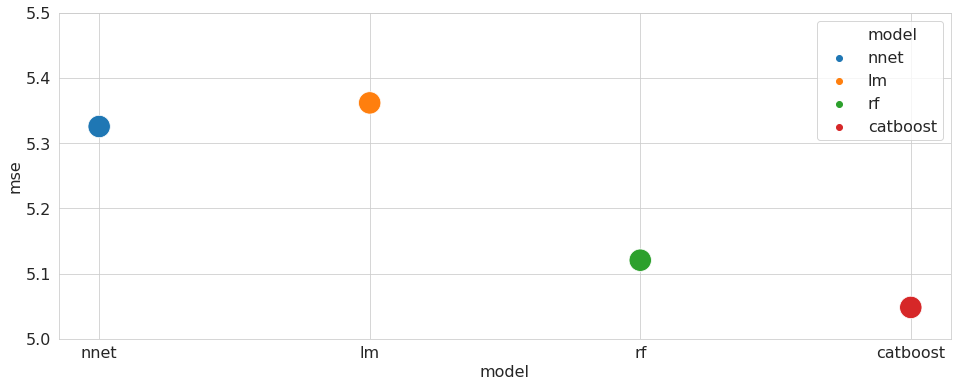
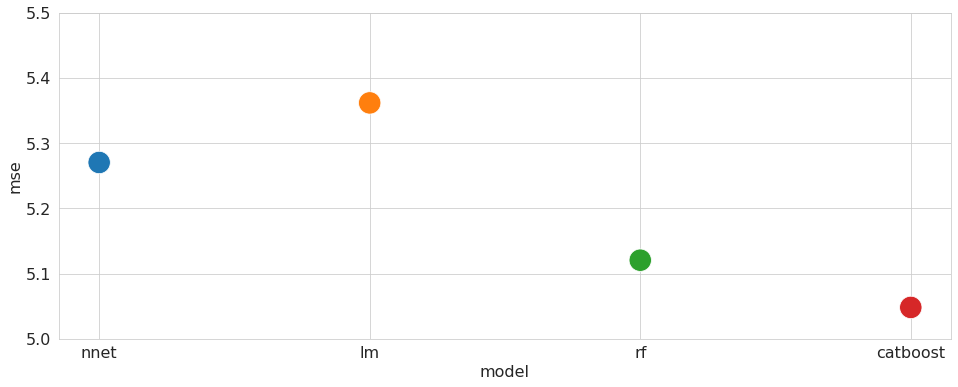
Update documentation

diff --git a/searchindex.js b/searchindex.js
@@ -1,1 +1,1 @@
-Search.setIndex({docnames:["intro","simulated","simulated_final","simulated_intro","simulated_reverse_engineering","stock","stock_final","stock_intro"],envversion:{"sphinx.domains.c":1,"sphinx.domains.changeset":1,"sphinx.domains.citation":1,"sphinx.domains.cpp":1,"sphinx.domains.index":1,"sphinx.domains.javascript":1,"sphinx.domains.math":2,"sphinx.domains.python":1,"sphinx.domains.rst":1,"sphinx.domains.std":1,sphinx:56},filenames:["intro.md","simulated.md","simulated_final.ipynb","simulated_intro.ipynb","simulated_reverse_engineering.ipynb","stock.ipynb","stock_final.ipynb","stock_intro.ipynb"],objects:{},objnames:{},objtypes:{},terms:{"100_000":3,"13th":0,"15_000":3,"1_629_155":7,"1st":4,"20_000":3,"228b22":4,"25_000":4,"2nd":6,"3rd":[2,4],"4169e1":4,"4th":4,"65_000":3,"80_000":3,"case":[4,7],"class":0,"default":[],"final":[0,1,3,4,5,7],"float":4,"function":[2,4],"import":[2,3,4,6,7],"long":0,"mat\u00e9rn":4,"return":[2,4,6,7],"short":5,"true":[2,4],"try":4,And:[1,2,4,7],But:4,For:[0,2,4,7],One:7,That:[4,6,7],The:[0,2,3,6,7],Then:5,There:[],Use:4,Using:7,With:6,a2m:7,a52a2a:4,abl:[2,4],about:[2,3,4,6],abov:[4,7],abs:4,absolut:7,accept:[],accross:4,across:4,act:6,activ:[0,2],actual:4,adam:2,add:2,add_:[],addit:[2,4],admit:4,affect:4,afterward:2,aftward:0,again:[5,6,7],against:4,algorithm:4,align:2,all:[0,2,3,4,6,7],allow:[],alpha:[4,6],alreadi:[0,4],also:[2,4],amount:4,analyz:[1,4],ani:4,annoi:4,anoth:[2,6],answer:4,aoa:7,api:2,appli:4,approach:6,architectur:2,archtectur:2,argsort:2,around:2,arrai:[],associ:[],assum:[0,4],astyp:4,at_adj:[6,7],ato:7,auditori:[],australia:[],automat:2,autoplai:[],avail:0,axes:[],axi:[2,4,6],back:0,backpropag:2,bar:2,base:0,basi:2,basic:2,batch_siz:2,beat:4,been:[0,2,3],befor:[3,4,7],begin:[],being:2,believ:[2,4],below:[0,2,4],beme:[6,7],beme_adj:7,benchmark:[2,5,6],best:3,beta1:4,beta2:4,beta3:4,beta:7,beta_0:4,beta_1:4,beta_2:4,beta_3:4,better:4,between:7,bib:[],bibliographi:[],bibtex:[],big:2,bin:4,black:4,bld:[2,4,6],block:[],bonn:0,book:[],bootstrap:2,both:4,box:4,brian:[],brisban:[],browser:4,build:[0,6],build_fn:2,build_project:0,build_regressor:2,built:[],button:[],calcul:2,call:2,can:[0,2,4,6,7],candid:3,cannot:[4,7],care:[2,3,6],catboost:[2,6],catboostregressor:[2,6],cdf:4,cell:[],center:[2,4],chang:[0,7],chapter:0,check:4,choos:[2,4],chose:5,chosen:[2,4,6],christoph:[],cite:[],classic:[2,7],classicali:4,clean_data:7,clear:4,click:0,clone:0,close:4,cmap:[],code:[2,6],coef:4,coef_:[4,6],coeffic:4,coeffici:[4,6],cognit:[],col:4,cold:[],color:[2,4],color_palett:4,column:[2,3,4,6,7],com:0,command:[],common:2,commonmark:[],compar:[1,2,3,4],comparison:7,compil:2,complex:[],compon:4,comput:[0,4],concaten:[6,7],concept:2,conda:0,confer:[],consid:[2,3,4,6],consist:[3,4],constrain:4,construct:[4,6,7],contain:[4,6,7],content:[],continu:[3,4],control:4,convinc:4,coolwarm:[],corr:4,correl:4,correlation_heatmap:4,cortex:[],could:[4,7],cov:4,covari:4,cover:[],creat:[0,4],create_predict:[],cross:[4,6],csv:[],cum_return_12_2:6,cum_return_12_7:6,cum_return_1_0:6,cum_return_36_13:6,cumul:4,custom_lin:[],cut:2,cycler:[],d_so:6,daa520:4,dash:4,data:[2,4,6],datafram:[2,4],date:7,deactiv:2,decid:[2,4],decis:3,deep:4,def:[2,4,6],defin:[],degre:[2,4,6],del:6,denot:4,dens:2,depend:[0,2],depth:2,design:3,detail:2,develop:2,deviat:4,df_coef:4,df_train:[2,6],df_val:[2,6],did:[2,4,7],differ:[2,4],dimens:[2,4,7],dimension:4,direct:4,directli:[2,5,6],discret:4,discuss:7,displai:[2,4],disregard:4,distplot:4,distr:4,distribut:[3,4],dive:4,doc:[],document:0,doe:[4,7],doesn:[],dollar:[],done:0,dot:4,download:0,draw:4,drop:[2,4,6,7],dtype:[],due:0,dure:2,e2p:6,each:[0,4,7],easi:0,easili:0,econometr:0,ecosystem:[],effect:[2,4],either:4,elimin:2,ell:4,emb:4,embed:0,emerg:4,empir:[],emploi:2,emul:0,end:[0,4],endeavor:1,engin:[1,3],enjoi:4,enough:4,ensembl:2,entir:4,entri:4,enumer:4,env:0,environ:0,epoch:2,eps:4,error:[2,4],escap:[],especi:4,establish:4,estim:4,estimators_:2,etc:[],evalu:7,evid:[],exampl:[0,2],exist:[],exogen:4,expect:[0,4],explain:[2,5],explod:4,explor:[1,5],extens:[],fals:[2,4,6],fashion:4,fast:4,favorit:0,featur:[3,6,7],feature_id:4,feature_importances_:2,feature_select:4,feel:3,few:[2,3,4],fig:[],figsiz:[2,4],figur:[2,4],file:0,file_simul:[],file_stock:[],filelink:[],final_predict:[2,6],final_prediction_simul:[],find:[2,4],first:[1,2,4,7],firstli:4,fit:[2,4,6,7],fit_transform:[2,4,6],fix:[],flatten:4,flavor:[],float64:[],floc:4,focu:2,fold:[4,6],folder:0,follow:[0,1,3,4,5,6,7],font:2,font_scal:4,forc:2,form:7,format:[],found:[6,7],four:[1,2],free:3,free_cf:6,freyberg:0,from:[0,2,3,4,6,7],frontier:[],full:2,further:[3,4],gaussian_process:4,gbt:2,gener:4,get:4,get_feature_nam:4,get_ridge_coef:4,get_support:4,getcwd:[2,3,4,6,7],git:0,github:0,give:4,given:[0,3,7],goal:4,goldenrod:4,great:4,greater:7,grid:6,grid_scores_:4,group:[4,7],gtb:[],guid:[],had:7,hand:3,has:2,have:[0,3,4,6,7],hdhpk14:[],head:[],heatmap:4,heavili:4,heer:[],held:0,henc:4,here:[0,2,4,6,7],hererer:2,hidden:2,highli:2,hist_kw:4,histogram:4,holdgraf:[],holdgraf_evidence_2014:[],home:[],hot:[],how:[2,3,4,5,7],howev:[0,2,4,7],html:[],html_attribut:4,http:0,hue:[2,4],human:[],hyperparamet:4,id_var:4,idea:4,ignor:[2,6,7],iloc:[3,7],imag:[],imagin:4,implement:[3,7],impli:4,importlib:4,includ:[2,4,7],include_bia:[2,4,6],incorrect:[],independ:4,index:[4,6,7],indic:2,indirect:4,individu:4,inform:[4,6],init:[],inner:4,input:2,input_dim:2,insert:[],insid:[],insight:4,instal:0,instead:4,interact:4,interest:4,intern:[],interpret:0,intro:7,introduc:[0,2],introduct:[],intuit:2,investig:[1,5],ion:[],ipynb:[],ipython:4,irrelev:4,iter:[2,4],its:[],itself:[],joachim:0,jump:[2,4,5,6],jupyt:[],jupytext:[],just:0,kde:4,keep:[],kera:2,kerasregressor:2,kernel:4,kind:[],knight:[],know:7,knowledg:4,krizhevski:2,la_:[],label:3,languag:0,lars_path:4,lasso:6,lasso_model:[4,6],lasso_model_poli:4,lassocv:[4,6],last:[2,4,5,7],lastli:[4,7],layer:2,lazi:4,lead:[2,4],learn:[2,3,4],learner:2,learning_r:2,least:[0,4],led:4,legend:4,len:4,length_scal:4,less:[],let:4,librari:2,like:4,line2d:[],line:[0,4],linear:4,linear_model:[2,4,6],linearregress:[2,4,6],lineplot:4,linestyl:4,linewidth:4,link:0,linspac:4,list:2,literatur:3,load:4,load_modul:4,loader:4,loc:4,local:4,locat:0,logarithm:6,logspac:6,look:4,loop:[],loss:2,loss_funct:2,lot:[],lower:[4,6],machin:[2,4],made:[2,4],mai:[],main:[2,4],major:4,make:4,make_featur:6,mani:[2,4],markedli:[],markup:[],master:[],matern:4,matern_kernel:4,math:[],mathcal:4,matplotlib:[2,4,6],matrix:4,matter:4,max:4,max_depth:2,max_featur:2,maximum:4,mbox:[],mean:[2,4],mean_squared_error:[2,6],measur:[2,7],medium:[],melt:4,memori:6,mention:4,mess:0,metadata:[],method:[2,4],metric:[2,6],min_samples_leaf:2,miniconda:0,mitig:2,mix:6,mle_tuple_norm:4,mle_tuple_t:4,model:[0,1,3,4,5,7],modul:4,more:[3,4],moreoev:[],moreov:2,most:[2,4],move:7,mp4:4,mse:6,mse_first_stag:2,mse_gbt:2,mse_gtb:[],mse_lm:[2,6],mse_nnet:2,mse_pm:6,mse_rf:2,multipl:[],multivariate_norm:4,must:2,mute:4,mvnormal:4,mydirectivenam:[],n_alpha:4,n_col:2,n_estim:2,n_job:2,name:0,nan:[3,7],nearli:0,necessari:0,need:[0,4],neg:4,neg_mean_squared_error:4,neglig:4,neighbor:[2,4],neuron:2,neurosci:[],nevertheless:4,next:[0,2,4,7],nnet:2,no_interact:4,noa:6,node:2,non:[2,4],nonzero:6,norm:4,norm_distr:4,norm_hist:4,normal:4,note:[0,2,4],notebook:[0,4],notic:4,number:4,numpi:[2,4,6],observ:[0,3,4,7],off:4,offlin:4,older:7,onc:[],one:4,onli:[2,3,4,6],open:0,optim:[2,4],order:4,origin:[2,7],other:[2,3],otherwis:0,our:4,out:4,outcom:[0,3,7],outperform:2,output:2,over:6,overal:[3,4],overfit:2,packag:[0,2,4],page:[],panda:[2,3,4,6,7],panel:7,paramet:[2,4,6],parameter:4,parent:[2,3,4,6,7],parquet:[0,2,3,4,6,7],part:[0,7],particular:[2,4],paslei:[],path:[2,3,4,6,7],pathlib:[2,3,4,6,7],pattern:[],pca:4,pcm:6,pdf:4,perform:[2,3,4,7],period:7,phi:4,pick:4,plai:2,pleas:[0,2,4,6],plot:[2,4],plt:[2,4,6],plu:6,pm_adj:6,point:3,poli:[2,4,6],poly_column:4,polynomi:[2,4,6],polynomialfeatur:[2,4,6],popular:2,posit:4,post:[],potenti:3,power:[2,6],pre:[],predict:[2,3,4,6],preprocess:[2,4,6],present:[0,1,2,3,4,5,7],previou:[2,6],print:[2,4,6],prior:4,problem:[2,4],procedur:[2,3,6],process:4,produc:0,prof:0,program:0,project:[0,4],prop:4,prop_cycl:[],properli:[],propos:4,proven:2,provid:[0,2,4],pure:4,purpos:[],pursu:4,pusu:4,pyplot:[2,4,6],python:[0,2,4],quantatit:4,quick:[1,5],quit:4,ramsai:[],randn:[],random:4,random_st:[2,4],randomforestregressor:2,randomli:[2,3,4],rang:[2,4],rather:4,rcparam:[2,4],rdata:0,reach:3,read:[0,4],read_parquet:[2,3,4,6,7],real:0,realiz:2,realli:4,recurs:2,reduc:[2,4],reduct:4,refer:[],regress:[2,4,6],regressor:[2,4],regular:[4,6],rel:[],relationship:2,relev:[2,4,6],relevant_column:6,relevant_poli:4,relu:2,remain:[3,4],remark:2,rename_axi:4,render:[],replac:4,repres:4,reproduc:0,rerun:0,reset_index:4,reshap:4,respect:[0,2,7],rest:[],result:[0,4],result_html_prefix:[],ret_max:6,revers:[1,3],rfecv:4,ridgecv:4,right:4,rmse:2,robert:[],rolenam:[],root:[2,3,4,6,7],rout:4,royalblu:4,run:0,rvs:4,sadli:4,safe:2,sai:4,said:2,same:4,sampl:[2,4,5],sandbox:0,scale:6,scatterplot:2,sciebo:[],scikit_learn:2,scipi:4,score:4,script:[0,2,3,6,7],seaborn:[2,4,6],second:[2,4],secondli:4,section:[0,1,2,3,4,5,6],see:[0,2,4],seed:2,seem:[],seen:4,select:[4,6],sens:[2,4],sensibl:4,septemb:0,sequenc:6,sequenti:2,seri:[],serv:[],set:[0,1,2,3,4,5,6,7],set_context:4,set_palett:4,set_styl:[2,4],seventh:2,sever:[2,7],shape:2,share:4,should:2,show:[1,2,4],shrunk:4,sigma:4,sigmoid:2,sign:[],signal:2,sim:4,similar:[2,4],simpi:4,simpl:[2,4,6],simplest:[],simplt:[],simul:[0,3,7],simulated_data:[0,3],sinc:[2,4],singl:[2,3],size:[2,4],skip:[3,4],sklearn:[2,4,6],slight:[],slightli:2,small:4,smaller:[4,7],sns:[2,4,6],some:[0,2,4,5],space:4,span:[],sparkr:0,spars:[2,4],sparsiti:4,spec:4,spec_from_file_loc:4,special:[4,6],specif:[0,2,7],sphinx:[],split:5,squar:[2,4],srivastava:2,stage:4,stand:4,standard:[3,4],start:[1,5,7],stat:4,state:[],statist:0,std:2,step:[2,3,4],still:4,stock:[0,7],stock_data:[0,7],store:0,str:4,strategi:[2,7],strongli:2,structur:[0,4,7],strucutr:4,style:4,submiss:[0,2],submit:0,subplot:[],subsect:[2,6],subset:[4,6],substanti:4,sum:4,support:4,sure:[],suv:6,syntax:[],system:0,t_distr:4,tabl:2,tag:4,talk:3,task:0,techniqu:[2,3,4],tensorflow:2,tenth:2,term:4,termin:0,test:[0,3,4,7],tex:[],text:4,than:[4,7],thei:4,them:4,themselv:0,theoret:2,thi:[0,2,3,4,7],thing:[4,6],third:[2,4,6],those:[],three:6,threshold:4,through:4,tight:4,tightli:4,tim:[],time:[6,7],timmen:0,tip:[],titl:[2,4],to_list:[4,6],togeth:7,too:[2,4],tool:4,top:[1,2,4],topic:0,toward:4,train:[0,2,4,5],train_simul:[2,4],train_stock:6,train_test_split:[3,7],transform:[0,2,3,4,6,7],tupl:4,turn:[2,4],two:[0,4],under:4,underli:4,understand:4,unfortun:4,uni:[],uniform:[3,4],uniformli:4,unit:[2,4,7],univari:4,univers:0,unregular:[4,6],unrel:4,until:7,updat:2,use:[0,2,4],used:[3,6],useful:4,uses:[],using:[0,1,2,4,6],util:4,valid:[1,2,4,5,6],validate_simul:2,validate_stock:6,valu:[2,4],var_nam:4,variant:2,variat:[],vector:4,verbos:[2,4],veri:[0,2,4],version:2,via:[4,6],video:4,vline:4,wai:[0,2,7],want:[0,4,7],weak:2,well:[2,4,5],wendi:[],were:[3,4,6],wether:4,when:4,where:[4,5],wherea:[],whether:4,which:[0,1,2,3,4,6,7],whitegrid:[2,4],why:4,willing:4,wish:4,without:0,won:4,wont:4,work:[2,4],would:4,wrapper:2,write:2,written:[],x12:4,x13:[],x14:4,x35:[],x37:4,x38:4,x39:4,x40:4,x44:[],x47:[],x57:4,x90:[],x92:4,x93:[],x94:[],x99:4,x_3:2,x_k:4,x_train:[2,6],x_val:[2,6],xlabel:4,xlim:[2,4],xtick:[2,4],xx_train:[2,6],xx_val:[2,6],y_train:[2,6],y_val:[2,6],year:[6,7],yerr:2,ylabel:4,ylim:[2,4],ymax:4,ymin:4,yml:0,you:[0,2,3,4,6],your:[0,4],z_k:4,zero:4,zip:2},titles:["Introduction","Simulated Data","Final","Data Description","Reverse Engineering","Stock Data","Final","Data Description"],titleterms:{"final":[2,6],Adding:[],The:4,Using:2,analysi:4,applic:2,approach:4,between:4,block:[],bonn:[],book:[],boost:2,citat:[],clean:7,code:0,comparison:[2,4],conclus:4,content:[],data:[0,1,3,5,7],deep:2,degre:[],descript:[0,3,7],direct:[],dropout:2,econometr:[],elimin:4,engin:4,execut:[],far:4,featur:[2,4],file:[],first:[],forest:2,format:0,freyberg:[],gradient:2,implement:2,introduct:0,joachim:[],jupyt:[],lasso:4,linear:[2,6],markdown:[],model:[2,6],mse:2,myst:[],network:2,neural:2,next:3,note:[],notebook:[],outcom:4,output:[],predict:0,preliminari:[2,4,6],problem:0,process:[],prof:[],quantit:4,random:2,recap:4,recurs:4,regular:2,relationship:4,revers:4,ridg:4,role:[],second:[],select:2,set:[],simul:[1,4],split:[3,7],stage:[2,6],statist:[],stock:5,subset:2,theori:2,topic:[],train:[3,7],tree:2,two:[2,6],univers:[],using:[],valid:[3,7],what:[],your:[]}})
+Search.setIndex({docnames:["intro","simulated","simulated_final","simulated_intro","simulated_reverse_engineering","stock","stock_final","stock_intro","zreferences"],envversion:{"sphinx.domains.c":1,"sphinx.domains.changeset":1,"sphinx.domains.citation":1,"sphinx.domains.cpp":1,"sphinx.domains.index":1,"sphinx.domains.javascript":1,"sphinx.domains.math":2,"sphinx.domains.python":1,"sphinx.domains.rst":1,"sphinx.domains.std":1,sphinx:56},filenames:["intro.md","simulated.md","simulated_final.ipynb","simulated_intro.ipynb","simulated_reverse_engineering.ipynb","stock.ipynb","stock_final.ipynb","stock_intro.ipynb","zreferences.md"],objects:{},objnames:{},objtypes:{},terms:{"100_000":3,"13th":0,"15_000":3,"1_629_155":7,"1st":4,"20_000":3,"228b22":4,"25_000":4,"2nd":6,"3rd":[2,4],"4169e1":4,"4th":4,"65_000":3,"80_000":3,"\u0131":8,"case":[4,7],"class":0,"default":[],"final":[0,1,3,4,5,7],"float":4,"function":[2,4],"import":[2,3,4,6,7],"long":0,"mat\u00e9rn":4,"return":[2,4,6,7],"short":5,"true":[2,4],"try":4,And:[1,2,4,7],But:4,For:[0,2,4,7],One:7,Res:8,That:[4,6,7],The:[0,2,3,6,7],Then:5,There:[],Use:4,Using:7,With:6,a2m:7,a52a2a:4,aab:[2,8],abadi:8,abl:[2,4],about:[2,3,4,6],abov:[4,7],abs:4,absolut:7,accept:[],accross:4,acm:8,across:4,act:6,activ:[0,2],actual:4,adam:2,add:2,add_:[],addit:[2,4],admit:4,affect:4,afterward:2,aftward:0,again:[5,6,7],against:4,agarw:8,alex:8,algorithm:4,align:2,all:[0,2,3,4,6,7],allow:[],alpha:[4,6],alreadi:[0,4],also:[2,4],amount:4,analysi:8,analyz:[1,4],andi:8,andrew:8,ani:4,annoi:4,anoth:[2,6],answer:4,aoa:7,api:2,appli:4,approach:6,architectur:2,archtectur:2,argsort:2,around:2,arrai:[],articl:8,ashish:8,associ:[],assum:[0,4],astyp:4,at_adj:[6,7],ato:7,auditori:[],australia:[],automat:2,autoplai:[],avail:[0,8],axes:[],axi:[2,4,6],back:0,backpropag:2,bar:2,barham:8,base:0,basi:2,basic:2,batch_siz:2,beat:4,been:[0,2,3],befor:[3,4,7],begin:[],being:2,believ:[2,4],below:[0,2,4],beme:[6,7],beme_adj:7,benchmark:[2,5,6],benoit:8,best:3,beta1:4,beta2:4,beta3:4,beta:7,beta_0:4,beta_1:4,beta_2:4,beta_3:4,better:4,between:7,bib:[],bibliographi:[],bibtex:[],big:2,bin:4,black:4,bld:[2,4,6],block:[],bonn:0,book:[],boost:8,bootstrap:2,both:4,box:4,brevdo:8,brian:[],brisban:[],browser:4,build:[0,6],build_fn:2,build_project:0,build_regressor:2,built:[],button:[],calcul:2,call:2,can:[0,2,4,6,7],candid:3,cannot:[4,7],care:[2,3,6],catboost:[2,6],catboostregressor:[2,6],cdf:4,cell:[],center:[2,4],chang:[0,7],chapter:0,check:4,chen:8,chollet:8,choos:[2,4],chose:5,chosen:[2,4,6],chri:8,christoph:[],cite:[],citro:8,classic:[2,7],classicali:4,classif:8,clean_data:7,clear:4,click:0,clone:0,close:4,cmap:[],code:[2,6],coef:4,coef_:[4,6],coeffic:4,coeffici:[4,6],cognit:[],col:4,cold:[],color:[2,4],color_palett:4,column:[2,3,4,6,7],com:[0,8],command:[],common:2,commonmark:[],commun:8,compar:[1,2,3,4],comparison:7,compil:2,complex:[],compon:4,comput:[0,4,8],concaten:[6,7],concept:2,conda:0,confer:[],consid:[2,3,4,6],consist:[3,4],constrain:4,construct:[4,6,7],contain:[4,6,7],content:[],continu:[3,4],control:4,convinc:4,convolut:8,coolwarm:[],corr:4,corrado:8,correl:4,correlation_heatmap:4,cortex:[],could:[4,7],cov:4,covari:4,cover:[],craig:8,creat:[0,4],create_predict:[],cross:[4,6],csv:[],cum_return_12_2:6,cum_return_12_7:6,cum_return_1_0:6,cum_return_36_13:6,cumul:4,custom_lin:[],cut:2,cycler:[],d_so:6,daa520:4,dandelion:8,dash:4,data:[2,4,6,8],datafram:[2,4],date:7,davi:8,deactiv:2,dean:8,decid:[2,4],decis:3,deep:[4,8],def:[2,4,6],defin:[],degre:[2,4,6],del:6,denot:4,dens:2,depend:[0,2],depth:2,derek:8,design:3,detail:2,develop:2,deviat:4,devin:8,df_coef:4,df_train:[2,6],df_val:[2,6],did:[2,4,7],differ:[2,4],dimens:[2,4,7],dimension:4,direct:4,directli:[2,5,6],discret:4,discuss:7,displai:[2,4],disregard:4,distplot:4,distr:4,distribut:[3,4],dive:4,doc:[],document:0,doe:[4,7],doesn:[],doi:8,dollar:[],done:0,dot:4,download:0,draw:4,drop:[2,4,6,7],dropout:8,dtype:[],due:0,dure:2,e2p:6,each:[0,4,7],easi:0,easili:0,econometr:0,ecosystem:[],effect:[2,4],either:4,elimin:2,ell:4,emb:4,embed:0,emerg:4,empir:[],emploi:2,emul:0,end:[0,4],endeavor:1,engin:[1,3],enjoi:4,enough:4,ensembl:2,entir:4,entri:4,enumer:4,env:0,environ:0,epoch:2,eps:4,equival:2,error:[2,4],escap:[],especi:4,establish:4,estim:4,estimators_:2,etc:[],eugen:8,evalu:7,evid:[],exampl:[0,2],exist:[],exogen:4,expect:[0,4],explain:[2,5],explod:4,explor:[1,5],extens:[],fals:[2,4,6],fashion:4,fast:4,favorit:0,fchollet:8,featur:[3,6,7],feature_id:4,feature_importances_:2,feature_select:4,feel:3,fernanda:8,few:[2,3,4],fig:[],figsiz:[2,4],figur:[2,4],file:0,file_simul:[],file_stock:[],filelink:[],final_predict:[2,6],final_prediction_simul:[],find:[2,4],first:[1,2,4,7],firstli:4,fit:[2,4,6,7],fit_transform:[2,4,6],fix:[],flatten:4,flavor:[],float64:[],floc:4,focu:2,fold:[4,6],folder:0,follow:[0,1,3,4,5,6,7],font:2,font_scal:4,forc:2,form:7,format:[],found:[6,7],four:[1,2],francoi:8,free:3,free_cf:6,freyberg:0,fri02:[2,8],friedman:[2,8],from:[0,2,3,4,6,7,8],frontier:[],full:2,further:[3,4],gas:8,gaussian_process:4,gbt:2,gener:4,geoffrei:8,get:4,get_feature_nam:4,get_ridge_coef:4,get_support:4,getcwd:[2,3,4,6,7],ghemawat:8,git:0,github:[0,8],give:4,given:[0,3,7],goal:4,goldenrod:4,goodfellow:8,gradient:8,great:4,greater:7,greg:8,grid:6,grid_scores_:4,group:[4,7],gtb:[],guid:[],had:7,hand:3,harp:8,has:2,have:[0,3,4,6,7],hdhpk14:[],head:[],heatmap:4,heavili:4,heer:[],held:0,henc:4,here:[0,2,4,6,7],hererer:2,heterogen:8,hidden:2,highli:2,hinton:8,hist_kw:4,histogram:4,holdgraf:[],holdgraf_evidence_2014:[],home:[],hot:[],how:[2,3,4,5,7],howev:[0,2,4,7],html:[],html_attribut:4,http:[0,8],hue:[2,4],human:[],hyperparamet:4,ian:8,id_var:4,idea:4,ignor:[2,6,7],iloc:[3,7],ilya:8,imag:[],imagenet:8,imagin:4,implement:[3,7],impli:4,importlib:4,includ:[2,4,7],include_bia:[2,4,6],incorrect:[],independ:4,index:[4,6,7],indic:2,indirect:4,individu:4,inform:[4,6],init:[],inner:4,input:2,input_dim:2,insert:[],insid:[],insight:4,instal:0,instead:4,interact:4,interest:4,intern:[],interpret:0,intro:7,introduc:[0,2],introduct:[],intuit:2,investig:[1,5],ion:[],ipynb:[],ipython:4,irrelev:4,irv:8,isard:8,iter:[2,4],its:[],itself:[],januari:8,jeffrei:8,jerom:8,jia:8,joachim:0,jonathon:8,josh:8,jozefowicz:8,jump:[2,4,5,6],jupyt:[],jupytext:[],just:0,kaiser:8,kde:4,keep:[],kei:2,kera:[2,8],kerasregressor:2,kernel:4,kind:[],knight:[],know:7,knowledg:4,krizhevski:8,ksh17:[2,8],kudlur:8,kunal:8,la_:[],label:3,languag:0,larg:8,lars_path:4,lasso:6,lasso_model:[4,6],lasso_model_poli:4,lassocv:[4,6],last:[2,4,5,7],lastli:[4,7],layer:2,lazi:4,lead:[2,4],learn:[2,3,4,8],learner:2,learning_r:2,least:[0,4],led:4,legend:[2,4],len:4,length_scal:4,less:[],let:4,levenberg:8,librari:2,like:4,line2d:[],line:[0,4],linear:4,linear_model:[2,4,6],linearregress:[2,4,6],lineplot:4,linestyl:4,linewidth:4,link:0,linspac:4,list:2,literatur:3,load:4,load_modul:4,loader:4,loc:4,local:4,locat:0,logarithm:6,logspac:6,look:4,loop:[],loss:2,loss_funct:2,lot:[],lower:[4,6],lukasz:8,mach:8,machin:[2,4,8],made:[2,4],mai:8,main:[2,4],major:4,make:4,make_featur:6,man:8,mani:[2,4],manjunath:8,markedli:[],markup:[],mart:8,martin:8,master:[],matern:4,matern_kernel:4,math:[],mathcal:4,matplotlib:[2,4,6],matrix:4,matter:4,matthieu:8,max:4,max_depth:2,max_featur:2,maximum:4,mbox:[],mean:[2,4],mean_squared_error:[2,6],measur:[2,7],medium:[],melt:4,memori:6,mention:4,mess:0,metadata:[],method:[2,4,8],metric:[2,6],michael:8,mike:8,min_samples_leaf:2,mine:8,miniconda:0,mitig:2,mix:6,mle_tuple_norm:4,mle_tuple_t:4,model:[0,1,3,4,5,7],modul:4,monga:8,moor:8,more:[3,4],moreoev:[],moreov:2,most:[2,4],move:7,mp4:4,mse:6,mse_first_stag:2,mse_gbt:2,mse_gtb:[],mse_lm:[2,6],mse_nnet:2,mse_pm:6,mse_rf:2,multipl:[],multivariate_norm:4,murrai:8,must:2,mute:4,mvnormal:4,mydirectivenam:[],n_alpha:4,n_col:2,n_estim:2,n_job:2,name:0,nan:[3,7],nearli:0,necessari:0,need:[0,4],neg:4,neg_mean_squared_error:4,neglig:4,neighbor:[2,4],network:8,neural:8,neuron:2,neurosci:[],nevertheless:4,next:[0,2,4,7],nitish:8,nnet:2,no_interact:4,noa:6,node:2,non:[2,4],none:2,nonlinear:8,nonzero:6,norm:4,norm_distr:4,norm_hist:4,normal:4,note:[0,2,4],notebook:[0,4],notic:4,number:4,numpi:[2,4,6],observ:[0,3,4,7],off:4,offlin:4,olah:8,older:7,onc:[],one:4,onli:[2,3,4,6],open:0,optim:[2,4],order:4,org:8,origin:[2,7],oriol:8,other:[2,3,8],otherwis:0,our:4,out:4,outcom:[0,3,7],outperform:2,output:2,over:6,overal:[3,4],overfit:[2,8],packag:[0,2,4],page:[],panda:[2,3,4,6,7],panel:7,paper:2,paramet:[2,4,6],parameter:4,parent:[2,3,4,6,7],parquet:[0,2,3,4,6,7],part:[0,7],particular:[2,4],paslei:[],path:[2,3,4,6,7],pathlib:[2,3,4,6,7],pattern:[],paul:8,pca:4,pcm:6,pdf:4,perform:[2,3,4,7],period:7,pete:8,phi:4,pick:4,pii:8,plai:2,pleas:[0,2,4,6],plot:[2,4],plt:[2,4,6],plu:6,pm_adj:6,point:3,poli:[2,4,6],poly_column:4,polynomi:[2,4,6],polynomialfeatur:[2,4,6],popular:2,posit:4,post:[],potenti:3,power:[2,6],pre:[],predict:[2,3,4,6],preprocess:[2,4,6],present:[0,1,2,3,4,5,7],prevent:8,previou:[2,6],print:[2,4,6],prior:4,problem:[2,4],procedur:[2,3,6],process:4,produc:0,prof:0,program:0,project:[0,4],prop:4,prop_cycl:[],properli:[],propos:4,proven:2,provid:[0,2,4],pure:4,purpos:[],pursu:4,pusu:4,pyplot:[2,4,6],python:[0,2,4],quantatit:4,quick:[1,5],quit:4,rafal:8,rajat:8,ramsai:[],randn:[],random:4,random_st:[2,4],randomforestregressor:2,randomli:[2,3,4],rang:[2,4],rather:4,rcparam:[2,4],rdata:0,reach:3,read:[0,4],read_parquet:[2,3,4,6,7],real:0,realiz:2,realli:4,recurs:2,reduc:[2,4],reduct:4,refer:[],regress:[2,4,6],regressor:[2,4],regular:[4,6],rel:[],relationship:2,relev:[2,4,6],relevant_column:6,relevant_poli:4,relu:2,remain:[3,4],remark:2,rename_axi:4,render:[],replac:4,repres:4,reproduc:0,rerun:0,reset_index:4,reshap:4,respect:[0,2,7],rest:[],result:[0,4],result_html_prefix:[],ret_max:6,revers:[1,3],rfecv:4,ridgecv:4,right:4,rmse:2,robert:[],rolenam:[],root:[2,3,4,6,7],rout:4,royalblu:4,run:0,ruslan:8,rvs:4,s0167947301000652:8,s0167:8,sadli:4,safe:2,sai:4,said:2,salakhutdinov:8,same:4,sampl:[2,4,5],sandbox:0,sanjai:8,scale:[6,8],scatterplot:2,schuster:8,sciebo:[],scienc:8,sciencedirect:8,scikit_learn:2,scipi:4,score:4,script:[0,2,3,6,7],seaborn:[2,4,6],second:[2,4],secondli:4,section:[0,1,2,3,4,5,6],see:[0,2,4],seed:2,seem:[],seen:4,select:[4,6],semin:2,sens:[2,4],sensibl:4,septemb:0,sequenc:6,sequenti:2,seri:[],serv:[],set:[0,1,2,3,4,5,6,7],set_context:4,set_palett:4,set_styl:[2,4],seventh:2,sever:[2,7],shape:2,share:4,sherri:8,shk:[2,8],shlen:8,should:2,show:[1,2,4],shrunk:4,sigma:4,sigmoid:2,sign:[],signal:2,sim:4,similar:[2,4],simpi:4,simpl:[2,4,6,8],simplest:[],simplt:[],simul:[0,3,7],simulated_data:[0,3],sinc:[2,4],singl:[2,3],size:[2,4],skip:[3,4],sklearn:[2,4,6],slight:[],slightli:2,small:4,smaller:[4,7],sns:[2,4,6],softwar:8,some:[0,2,4,5],space:4,span:[],sparkr:0,spars:[2,4],sparsiti:4,spec:4,spec_from_file_loc:4,special:[4,6],specif:[0,2,7],sphinx:[],split:5,squar:[2,4],srivastava:8,stage:4,stand:4,standard:[3,4],start:[1,5,7],stat:4,state:[],statist:[0,8],std:2,steiner:8,step:[2,3,4],still:4,stochast:8,stock:[0,7],stock_data:[0,7],store:0,str:4,strategi:[2,7],strongli:2,structur:[0,4,7],strucutr:4,style:4,submiss:[0,2],submit:0,subplot:[],subsect:[2,6],subset:[4,6],substanti:4,sum:4,support:4,sure:[],sutskev:8,suv:6,syntax:[],system:[0,8],t_distr:4,tabl:2,tag:4,talk:3,talwar:8,task:0,techniqu:[2,3,4],tensorflow:[2,8],tenth:2,term:4,termin:0,test:[0,3,4,7],tex:[],text:4,than:[4,7],thei:4,them:4,themselv:0,theoret:2,thi:[0,2,3,4,7],thing:[4,6],third:[2,4,6],those:[],three:6,threshold:4,through:4,tight:4,tightli:4,tim:[],time:[6,7],timmen:0,tip:[],titl:[2,4],to_list:[4,6],togeth:7,too:[2,4],tool:4,top:[1,2,4],topic:0,toward:4,train:[0,2,4,5],train_simul:[2,4],train_stock:6,train_test_split:[3,7],transform:[0,2,3,4,6,7],tucker:8,tupl:4,turn:[2,4],two:[0,4],under:4,underli:4,understand:4,unfortun:4,uni:[],uniform:[3,4],uniformli:4,unit:[2,4,7],univari:4,univers:0,unregular:[4,6],unrel:4,until:7,updat:2,url:8,use:[0,2,4],used:[3,6],useful:4,uses:[],using:[0,1,2,4,6],util:4,valid:[1,2,4,5,6],validate_simul:2,validate_stock:6,valu:[2,4],vanhouck:8,var_nam:4,variant:2,variat:[],vasudevan:8,vector:4,verbos:[2,4],veri:[0,2,4],version:2,via:[4,6],video:4,vijai:8,vincent:8,vinyal:8,vline:4,wai:[0,2,7,8],want:[0,4,7],warden:8,wattenberg:8,weak:2,well:[2,4,5],wendi:[],were:[3,4,6],wether:4,when:4,where:[4,5],wherea:[],whether:4,which:[0,1,2,3,4,6,7],whitegrid:[2,4],why:4,wick:8,willing:4,wish:4,without:0,won:4,wont:4,work:[2,4],would:4,wrapper:2,write:2,written:[],www:8,x12:4,x13:[],x14:4,x35:[],x37:4,x38:4,x39:4,x40:4,x44:[],x47:[],x57:4,x90:[],x92:4,x93:[],x94:[],x99:4,x_3:2,x_k:4,x_train:[2,6],x_val:[2,6],xiaoqiang:8,xlabel:4,xlim:[2,4],xtick:[2,4],xx_train:[2,6],xx_val:[2,6],y_train:[2,6],y_val:[2,6],yangq:8,year:[6,7],yerr:2,ylabel:4,ylim:[2,4],ymax:4,ymin:4,yml:0,you:[0,2,3,4,6],your:[0,4],yuan:8,z_k:4,zero:4,zheng:8,zhifeng:8,zip:2},titles:["Introduction","Simulated Data","Final","Data Description","Reverse Engineering","Stock Data","Final","Data Description","Bibliography"],titleterms:{"final":[2,6],Adding:[],The:4,Using:2,analysi:4,applic:2,approach:4,between:4,bibliographi:8,block:[],bonn:[],book:[],boost:2,citat:[],clean:7,code:0,comparison:[2,4],conclus:4,content:[],data:[0,1,3,5,7],deep:2,degre:[],descript:[0,3,7],direct:[],dropout:2,econometr:[],elimin:4,engin:4,execut:[],far:4,featur:[2,4],file:[],first:[],forest:2,format:0,freyberg:[],gradient:2,implement:2,introduct:0,joachim:[],jupyt:[],lasso:4,linear:[2,6],markdown:[],model:[2,6],mse:2,myst:[],network:2,neural:2,next:3,note:[],notebook:[],outcom:4,output:[],predict:0,preliminari:[2,4,6],problem:0,process:[],prof:[],quantit:4,random:2,recap:4,recurs:4,regular:2,relationship:4,revers:4,ridg:4,role:[],second:[],select:2,set:[],simul:[1,4],split:[3,7],stage:[2,6],statist:[],stock:5,subset:2,theori:2,topic:[],train:[3,7],tree:2,two:[2,6],univers:[],using:[],valid:[3,7],what:[],your:[]}})

diff --git a/simulated_final.html b/simulated_final.html
@@ -321,7 +321,7 @@
 </div>
 <div class="section" id="deep-neural-network-with-dropout-regularization">
 <h2>2. Deep Neural Network with Dropout Regularization<a class="headerlink" href="#deep-neural-network-with-dropout-regularization" title="Permalink to this headline">¶</a></h2>
-<p>I fit a deep neural network using the popular <a class="reference external" href="https://keras.io/">keras</a> library which provides an intuitive API for the powerful <a class="reference external" href="https://www.tensorflow.org/">tensorflow</a> package. The neural network architecture is set using the <code class="docutils literal notranslate"><span class="pre">build_regressor</span></code> function. I choose an archtecture with 7 layers. For the first layer I choose 50 hidden nodes, 25 hidden nodes for the second layer and 10 hidden nodes for the third to seventh layer. Moreover I use the so called <a class="reference external" href="https://en.wikipedia.org/wiki/Rectifier_(neural_networks)">ReLu</a> activation function, which has been proven to outperform the classic sigmoid activation function in several ways, see for example <a class="reference external" href="https://papers.nips.cc/paper/4824-imagenet-classification-with-deep-convolutional-neural-networks.pdf">Krizhevsky et al. 2012</a>. As overfitting is a big problem with deep networks I employ a popular technique called dropout regularization to mitigate this effect, see <a class="reference external" href="https://jmlr.org/papers/volume15/srivastava14a/srivastava14a.pdf">Srivastava et al. 2014</a>. Dropout leads to neurons in a layer being randomly deactivated for a single epoch during the backpropagation, which in turn leads to neighboring neurons not developing a relationship that is too strongly dependent, which in turn is said to mitigate overfitting.</p>
+<p>I fit a deep neural network using the popular <a class="reference external" href="https://keras.io/">keras</a> library (<a class="bibtex reference internal" href="zreferences.html#keras" id="id1">[C+15]</a>) which provides an intuitive API for the powerful <a class="reference external" href="https://www.tensorflow.org/">tensorflow</a> package (<a class="bibtex reference internal" href="zreferences.html#tensorflow" id="id2">[AAB+15]</a>). The neural network architecture is set using the <code class="docutils literal notranslate"><span class="pre">build_regressor</span></code> function. I choose an archtecture with 7 layers. For the first layer I choose 50 hidden nodes, 25 hidden nodes for the second layer and 10 hidden nodes for the third to seventh layer. Moreover I use the so called <a class="reference external" href="https://en.wikipedia.org/wiki/Rectifier_(neural_networks)">ReLu</a> activation function, which has been proven to outperform the classic sigmoid activation function in several ways, see for example <a class="bibtex reference internal" href="zreferences.html#krizhevsky2017" id="id3">[KSH17]</a>. As overfitting is a big problem with deep networks I employ a popular technique called dropout regularization to mitigate this effect, see <a class="bibtex reference internal" href="zreferences.html#srivastava2014" id="id4">[SHK+14]</a>. Dropout leads to neurons in a layer being randomly deactivated for a single epoch during the backpropagation, which in turn leads to neighboring neurons not developing a relationship that is too strongly dependent, which in turn is said to mitigate overfitting.</p>
 <p><em><strong>Note.</strong></em></p>
 <p>I decide to use this specific architecture as I “learned” from the previous section that the main effects are sparse in the sense that only very few features are relevant. However, I also realized from playing around with some parameters and the validation error of the linear model that some effects must be highly non-linear. An architecture which reduces the nodes from the original 100 input dimensions to 50, then 25 and then 10 forces the network to select the relevant features. And by using the other additional 5 layers the network can find non-linear signals.</p>
 <p><em><strong>Remark.</strong></em></p>
@@ -367,7 +367,7 @@
 </div>
 </div>
 <div class="cell_output docutils container">
-<div class="output stream highlight-none notranslate"><div class="highlight"><pre><span></span>(Neural Network) MSE: 5.325447972161629
+<div class="output stream highlight-none notranslate"><div class="highlight"><pre><span></span>(Neural Network) MSE: 5.270290083073366
 </pre></div>
 </div>
 </div>
@@ -461,7 +461,7 @@
 </div>
 <div class="section" id="gradient-tree-boosting-the-final-model">
 <h2>4. Gradient tree boosting (<em>the final model</em>)<a class="headerlink" href="#gradient-tree-boosting-the-final-model" title="Permalink to this headline">¶</a></h2>
-<p>The final model I am using is a specific variant of a gradient boosted tree. In particular the version implemented in the <a class="reference external" href="https://catboost.ai/">catboost</a> package, which differs slightly from common implementations. Next I will introduce the concept of gradient boosting with a particular focus on tree weak-learners. Afterwards I show how to fit a model using <code class="docutils literal notranslate"><span class="pre">catboost</span></code>. Note that my final prediction submissions are not made with this specific model since here I only use my training sample. The final predictions are made with the script <a class="reference external" href="https://github.com/timmens/topics-project/blob/main/codes/final_prediction.py">final_prediction.py</a>.</p>
+<p>The final model I am using is a specific variant of a gradient boosted tree. The key concepts of the method are equivalent to the seminal paper by Friedman, see <a class="bibtex reference internal" href="zreferences.html#friedman2002" id="id5">[Fri02]</a>. I use the version implemented in the <a class="reference external" href="https://catboost.ai/">catboost</a> package, which differs slightly from common implementations. Next I will introduce the concept of gradient boosting with a particular focus on tree weak-learners. Afterwards I show how to fit a model using <code class="docutils literal notranslate"><span class="pre">catboost</span></code>. Note that my final prediction submissions are not made with this specific model since here I only use my training sample. The final predictions are made with the script <a class="reference external" href="https://github.com/timmens/topics-project/blob/main/codes/final_prediction.py">final_prediction.py</a>.</p>
 <div class="section" id="theory">
 <h3>Theory<a class="headerlink" href="#theory" title="Permalink to this headline">¶</a></h3>
 <p>Write about the theory of Catboost HERERERE!!!</p>
@@ -503,7 +503,9 @@
 
 <span class="n">sns</span><span class="o">.</span><span class="n">set_style</span><span class="p">(</span><span class="s2">&quot;whitegrid&quot;</span><span class="p">)</span>
 <span class="n">plt</span><span class="o">.</span><span class="n">ylim</span><span class="p">(</span><span class="mi">5</span><span class="p">,</span> <span class="mf">5.5</span><span class="p">)</span>
-<span class="n">_</span> <span class="o">=</span> <span class="n">sns</span><span class="o">.</span><span class="n">scatterplot</span><span class="p">(</span><span class="n">x</span><span class="o">=</span><span class="s2">&quot;model&quot;</span><span class="p">,</span> <span class="n">y</span><span class="o">=</span><span class="s2">&quot;mse&quot;</span><span class="p">,</span> <span class="n">data</span><span class="o">=</span><span class="n">data</span><span class="p">,</span> <span class="n">hue</span><span class="o">=</span><span class="s2">&quot;model&quot;</span><span class="p">,</span> <span class="n">s</span><span class="o">=</span><span class="mi">500</span><span class="p">)</span>
+<span class="n">_</span> <span class="o">=</span> <span class="n">sns</span><span class="o">.</span><span class="n">scatterplot</span><span class="p">(</span>
+    <span class="n">x</span><span class="o">=</span><span class="s2">&quot;model&quot;</span><span class="p">,</span> <span class="n">y</span><span class="o">=</span><span class="s2">&quot;mse&quot;</span><span class="p">,</span> <span class="n">data</span><span class="o">=</span><span class="n">data</span><span class="p">,</span> <span class="n">hue</span><span class="o">=</span><span class="s2">&quot;model&quot;</span><span class="p">,</span> <span class="n">s</span><span class="o">=</span><span class="mi">500</span><span class="p">,</span> <span class="n">legend</span><span class="o">=</span><span class="kc">None</span>
+<span class="p">)</span>
 </pre></div>
 </div>
 </div>

diff --git a/zreferences.html b/zreferences.html
@@ -1,12 +1,11 @@
 
 
-
 <!DOCTYPE html>
 
 <html xmlns="http://www.w3.org/1999/xhtml">
   <head>
     <meta charset="utf-8" />
-    <title>Index &#8212; Topics in Econometrics and Statistics</title>
+    <title>Bibliography &#8212; Topics in Econometrics and Statistics</title>
     <link rel="stylesheet" href="https://cdnjs.cloudflare.com/ajax/libs/font-awesome/5.11.2/css/all.min.css" integrity="sha384-KA6wR/X5RY4zFAHpv/CnoG2UW1uogYfdnP67Uv7eULvTveboZJg0qUpmJZb5VqzN" crossorigin="anonymous">
     <link href="_static/css/index.css" rel="stylesheet">
     <link rel="stylesheet" href="_static/sphinx-book-theme.css" type="text/css" />
@@ -38,8 +37,9 @@
         const thebe_selector_output = ".output"
     </script>
     <script async="async" src="_static/sphinx-thebe.js"></script>
-    <link rel="index" title="Index" href="#" />
+    <link rel="index" title="Index" href="genindex.html" />
     <link rel="search" title="Search" href="search.html" />
+    <link rel="prev" title="Final" href="stock_final.html" />
 
     <meta name="viewport" content="width=device-width, initial-scale=1">
     <meta name="docsearch:language" content="en">
@@ -77,7 +77,7 @@
   </a>
  </li>
 </ul>
-<ul class="nav sidenav_l1">
+<ul class="current nav sidenav_l1">
  <li class="toctree-l1">
   <a class="reference internal" href="simulated.html">
    Simulated Data
@@ -88,8 +88,8 @@
    Stock Data
   </a>
  </li>
- <li class="toctree-l1">
-  <a class="reference internal" href="zreferences.html">
+ <li class="toctree-l1 current active">
+  <a class="current reference internal" href="#">
    Bibliography
   </a>
  </li>
@@ -131,6 +131,18 @@
             class="fas fa-download"></i></button>
 
     
+    <div class="dropdown-buttons">
+        <!-- ipynb file if we had a myst markdown file -->
+        
+        <!-- Download raw file -->
+        <a class="dropdown-buttons" href="_sources/zreferences.md"><button type="button"
+                class="btn btn-secondary topbarbtn" title="Download source file" data-toggle="tooltip"
+                data-placement="left">.md</button></a>
+        <!-- Download PDF via print -->
+        <button type="button" id="download-print" class="btn btn-secondary topbarbtn" title="Print to PDF"
+            onClick="window.print()" data-toggle="tooltip" data-placement="left">.pdf</button>
+    </div>
+    
 </div>
         <!-- Source interaction buttons -->
 
@@ -146,6 +158,9 @@
 
     <!-- Table of contents -->
     <div class="d-none d-md-block col-md-2 bd-toc show">
+        <div class="tocsection onthispage pt-5 pb-3">
+            <i class="fas fa-list"></i> Contents
+        </div>
         <nav id="bd-toc-nav">
             
         </nav>
@@ -156,13 +171,47 @@
         
               <div>
                 
-
-<h1 id="index">Index</h1>
-
-<div class="genindex-jumpbox">
- 
+  <div class="section" id="bibliography">
+<h1>Bibliography<a class="headerlink" href="#bibliography" title="Permalink to this headline">¶</a></h1>
+<p id="bibtex-bibliography-zreferences-0"><dl class="citation">
+<dt class="bibtex label" id="tensorflow"><span class="brackets">AAB+15</span></dt>
+<dd><p>Mart’ın Abadi, Ashish Agarwal, Paul Barham, Eugene Brevdo, Zhifeng Chen, Craig Citro, Greg S. Corrado, Andy Davis, Jeffrey Dean, Matthieu Devin, Sanjay Ghemawat, Ian Goodfellow, Andrew Harp, Geoffrey Irving, Michael Isard, Yangqing Jia, Rafal Jozefowicz, Lukasz Kaiser, Manjunath Kudlur, Josh Levenberg, Dandelion Mané, Rajat Monga, Sherry Moore, Derek Murray, Chris Olah, Mike Schuster, Jonathon Shlens, Benoit Steiner, Ilya Sutskever, Kunal Talwar, Paul Tucker, Vincent Vanhoucke, Vijay Vasudevan, Fernanda Viégas, Oriol Vinyals, Pete Warden, Martin Wattenberg, Martin Wicke, Yuan Yu, and Xiaoqiang Zheng. TensorFlow: large-scale machine learning on heterogeneous systems. 2015. Software available from tensorflow.org. URL: <a class="reference external" href="https://www.tensorflow.org/">https://www.tensorflow.org/</a>.</p>
+</dd>
+<dt class="bibtex label" id="keras"><span class="brackets">C+15</span></dt>
+<dd><p>Francois Chollet and others. Keras. 2015. URL: <a class="reference external" href="https://github.com/fchollet/keras">https://github.com/fchollet/keras</a>.</p>
+</dd>
+<dt class="bibtex label" id="friedman2002"><span class="brackets">Fri02</span></dt>
+<dd><p>Jerome H. Friedman. Stochastic gradient boosting. <em>Computational Statistics &amp; Data Analysis</em>, 38(4):367 – 378, 2002. Nonlinear Methods and Data Mining. URL: <a class="reference external" href="http://www.sciencedirect.com/science/article/pii/S0167947301000652">http://www.sciencedirect.com/science/article/pii/S0167947301000652</a>, <a class="reference external" href="https://doi.org/https://doi.org/10.1016/S0167-9473(01)00065-2">doi:https://doi.org/10.1016/S0167-9473(01)00065-2</a>.</p>
+</dd>
+<dt class="bibtex label" id="krizhevsky2017"><span class="brackets">KSH17</span></dt>
+<dd><p>Alex Krizhevsky, Ilya Sutskever, and Geoffrey E. Hinton. Imagenet classification with deep convolutional neural networks. <em>Commun. ACM</em>, 60(6):84–90, May 2017. URL: <a class="reference external" href="https://doi.org/10.1145/3065386">https://doi.org/10.1145/3065386</a>, <a class="reference external" href="https://doi.org/10.1145/3065386">doi:10.1145/3065386</a>.</p>
+</dd>
+<dt class="bibtex label" id="srivastava2014"><span class="brackets">SHK+14</span></dt>
+<dd><p>Nitish Srivastava, Geoffrey Hinton, Alex Krizhevsky, Ilya Sutskever, and Ruslan Salakhutdinov. Dropout: a simple way to prevent neural networks from overfitting. <em>J. Mach. Learn. Res.</em>, 15(1):1929–1958, January 2014.</p>
+</dd>
+</dl>
+</p>
 </div>
 
+    <script type="text/x-thebe-config">
+    {
+        requestKernel: true,
+        binderOptions: {
+            repo: "binder-examples/jupyter-stacks-datascience",
+            ref: "master",
+        },
+        codeMirrorConfig: {
+            theme: "abcdef",
+            mode: "python"
+        },
+        kernelOptions: {
+            kernelName: "python3",
+            path: "./."
+        },
+        predefinedOutput: true
+    }
+    </script>
+    <script>kernelName = 'python3'</script>
 
               </div>
               
@@ -172,6 +221,7 @@
     
     <div class='prev-next-bottom'>
         
+    <a class='left-prev' id="prev-link" href="stock_final.html" title="previous page">Final</a>
 
     </div>
     <footer class="footer mt-5 mt-md-0">

diff --git a/stock_final.html b/stock_final.html
@@ -39,6 +39,7 @@
     <script async="async" src="_static/sphinx-thebe.js"></script>
     <link rel="index" title="Index" href="genindex.html" />
     <link rel="search" title="Search" href="search.html" />
+    <link rel="next" title="&lt;no title&gt;" href="zreferences.html" />
     <link rel="prev" title="Data Description" href="stock_intro.html" />
 
     <meta name="viewport" content="width=device-width, initial-scale=1">
@@ -362,6 +363,7 @@
     <div class='prev-next-bottom'>
         
     <a class='left-prev' id="prev-link" href="stock_intro.html" title="previous page">Data Description</a>
+    <a class='right-next' id="next-link" href="zreferences.html" title="next page">&lt;no title&gt;</a>
 
     </div>
     <footer class="footer mt-5 mt-md-0">

diff --git a/intro.html b/intro.html
@@ -88,6 +88,11 @@
    Stock Data
   </a>
  </li>
+ <li class="toctree-l1">
+  <a class="reference internal" href="zreferences.html">
+   Bibliography
+  </a>
+ </li>
 </ul>
 
 </nav>

diff --git a/search.html b/search.html
@@ -92,6 +92,11 @@
    Stock Data
   </a>
  </li>
+ <li class="toctree-l1">
+  <a class="reference internal" href="zreferences.html">
+   Bibliography
+  </a>
+ </li>
 </ul>
 
 </nav>

diff --git a/_sources/zreferences.md b/_sources/zreferences.md
@@ -1,0 +1,4 @@
+# Bibliography
+
+```{bibliography} references.bib
+```
